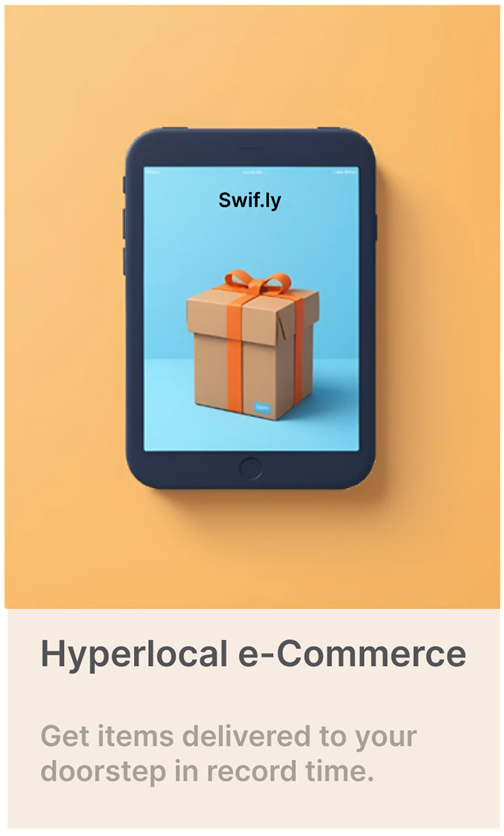
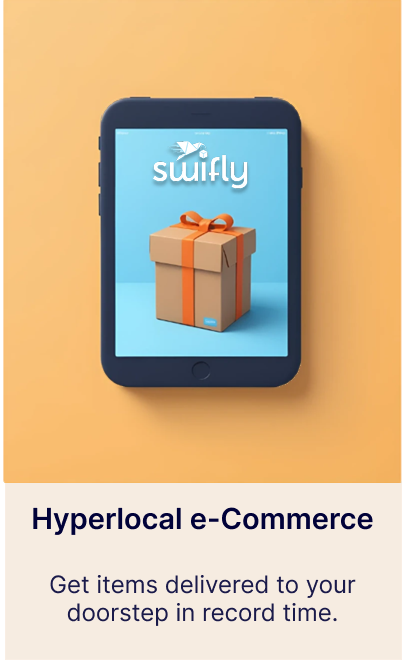
commit

diff --git a/src/style.css b/src/style.css
@@ -13,7 +13,7 @@
 
 .header-image {
     margin-left: 5%; /* Reduced margin for smaller screens */
-    height: 75px; /* Smaller height for better scaling */
+    height: 70px; /* Smaller height for better scaling */
     width: auto; /* Maintain aspect ratio */
 }
 html {
@@ -33,13 +33,15 @@ html {
 
 .button-container .btn.norm-btn {
     background-color: white;
-    color: rgb(161, 161, 161); /* Add border for visibility */
+    color: #50a4cc; /* Add border for visibility */
     font-style: bold;
 }
-
+.bruh1{
+    height:100%;
+}
 .button-container .btn:hover,
 .button-container .btn:focus {
-    background-color: rgb(255, 89, 0);
+    background-color: #50a4cc;
     color: white;
     border: none;
 }
@@ -47,12 +49,12 @@ html {
     position: relative;
 }
 .button-container .btn.orange-btn {
-    background-color: rgb(255, 89, 0);
+    background-color: #50a4cc;
     color: white;
 }
 
 .orange-btn {
-    background-color: rgb(255, 89, 0);
+    background-color: #50a4cc;
     color: white;
     border: none;
     margin-left: 2%;
@@ -74,6 +76,7 @@ html {
 .left-container 
 {
     width: 100%; 
+    height:40vw;
     padding-bottom:2%;
     display: flex;
     flex-direction: column; 
@@ -108,18 +111,19 @@ html {
     font-family: 'Inter', sans-serif;
     font-weight: 600;
     font-size: 3vw;
-    margin-top:20px;
-    margin-left:50px;
-    color: #474747;
+    margin-top:8%;
+    margin-left:7%;
+    color: black;
     line-height: 1.2;
+    text-shadow: 2px 2px 4px rgba(0, 0, 0, 0.3);
 }
 .left-container .section-text2 {
     font-family: 'Inter', sans-serif;
-    font-weight: 600;
+    font-weight: 400;
     font-size: 1.2vw;
     margin-top:20px;
-    margin-left:50px;
-    color: #7f7e7e;
+    margin-left:7%;
+    color: black;
     line-height: 1.5;
     letter-spacing: 1px;
 }
@@ -127,31 +131,31 @@ html {
     margin-top:20px;
     display: flex;
     align-items: center;
-    margin-left:50px;
+    margin-left:7%;
 }
 .orange-btn {
-    background-color: rgb(255, 89, 0);
-    color: white;
+    background-color: #ff8454;;
+    color: #f3e9df;
     border: none;
     margin-left:0;
     border-radius: 10px;
     padding: 20px 20px;
     cursor: pointer;
     margin-right:20px;
-    font-size:20px;
+    font-size: 1.4vw;
     font-weight:600;
 }
 .orange-btn:hover {
-    background-color: rgb(255, 120, 0);
+    background-color: rgb(255, 89, 0);
+    color:white;
 }
 .transparent-btn {
-    background-color: transparent;
-    color: rgb(255, 89, 0);
-    border: 2px solid rgb(0, 0, 0); 
+    background-color: #ff8454;
+    color: #f3e9df;
     border-radius: 10px;
     padding: 20px 20px;
     cursor: pointer;
-    font-size:20px;
+    font-size: 1.4vw;
     font-weight:600;
 }
 .transparent-btn:hover {
@@ -208,49 +212,77 @@ html {
     display:block;
 }
 /*NOW IS ABOUT*/
+.bruh4{
+    margin-top:5%;
+}
+.bruh2{
+    background-color: white;
+    height:100%;
+}
+.heading3{
+    margin-left:3%;
+}
+.swiflyheading{
+    display: block;
+    margin: auto;
+    height:12vw;
+    width:auto;
+    margin-top:1%;
+}
+.heading2{
+    display: block;
+    margin: auto;
+    font-size: 1.2vw;
+    width:auto;
+    text-align: center;
+    margin-top:1%;
+}
+.groupbike{
+    margin-top:2%;
+    margin-bottom:5%;
+    width:100%;
+}
 .homebike1 {
     left: 0; 
     z-index: 200;
-    width:45%;
+    height:42vw;
     position: absolute;
+    margin:2% auto;
 }
-
 .right-container 
 {
     width: 100%;
+    height:44vw;
     display: flex;
     flex-direction: column; 
     gap: 20px; 
     z-index:400;
     background-color: #fff5ed;
-    padding-bottom:5%;
     z-index:10;
+    padding-bottom:2%;
 }
-.right-container .section-image {
-    margin-top:70px;
-    width: 181px;
-    height: 90px; 
-    transform: scaleX(-1);
-    margin-left:47%;
-}
+
 .right-container .section-text1 {
     font-family: 'Inter', sans-serif;
     font-weight: 600;
-    font-size: 3.5vw;
-    margin-top:20px;
-    margin-left:47%;
-    color: #474747;
+    font-size: 3.2vw;
+    margin-top:10%;
+    margin-left:20%;
+    text-align:center;
+    color: black;
     line-height: 1.2;
     padding:10px;
+    z-index:200;
 }
 .right-container .section-text2 {
     font-family: 'Inter', sans-serif;
-    font-weight: 600;
+    font-weight: 400;
     font-size: 1.4vw;
     margin-top:20px;
-    margin-left:47%;
-    color: #bdbdbd;
+    margin-left:20%;
+    color: #616161;
     line-height: 1.5;
+    text-align:center;
 }
 .right-container .button-section {
     margin-top:30px;
@@ -267,8 +299,8 @@ html {
     padding: 20px 50px;
     cursor: pointer;
     margin-right:20px;
-    font-size: 2vw;
-    font-weight:500;
+    font-size: 1.4vw;
+    font-weight:400;
 }
 .orange-btn:hover {
     background-color: rgb(255, 120, 0);
@@ -284,18 +316,22 @@ html {
 }
 .custom-container1 {
     z-index: 200; 
-    margin: 0; 
+    margin: 0 auto; /* Centers the container */
     padding: 0; 
-    width: 100vw; 
+    width: 100%; 
     max-width: 100%; 
-    justify-content: space-between;
+    display: flex;
+    justify-content: center; /* Centers images */
     align-items: center;
+    gap: 20px; /* Adjust spacing between images */
     background-color: #fff5ed;
 }
-.gridimg{
-    width:90%;
-    height:auto;
+
+.gridimg {
+    width: 90%;
+    height: auto;
 }
+
 .bruh6,.bruh7{
     background-color: #beddf9;
     position:relative;

diff --git a/src/index.html b/src/index.html
@@ -41,9 +41,8 @@
   <div class="bruh1">
   <img src="../img/homebike.png" class="homebike" id="target-section1">
   <div class="left-container">
-    <img src="../img/swiflybird.png" alt="Placeholder Image" class="section-image">
-    <p class="section-text1">Swift Hyper-local <br> Delivery</p>
-    <p class="section-text2">From groceries to gadgets, we deliver it all<br>at lightning speed!<br>
+    <p class="section-text1">Swift Hyper-local Delivery</p>
+    <p class="section-text2">From groceries to gadgets, we deliver it all<br>at lightning speed!<br><br>
         The power of swift convenience at your<br>fingertips with Swif.ly</p>
     <div class="button-section">
       <button class="btn orange-btn">Download</button>
@@ -52,33 +51,14 @@
   </div>
   </div>
   <div id="bruh2">
-  <div class="container my-5 custom-container">
-    <div class="row container-second">
-        <div class="col-12 col-md-4 p-3">
-          <img src="../img/swiflybird.png" alt="Placeholder Image" class="section-image">
-          <p class="section-text1">How It Works</p>
-          <p class="section-text2">Step 1- Place your order via app</p>
-          <p class="section-text2">Step 2- Choose delivery or<br>service options</p>
-          <div class="button-section1">
-            <button class="btn orange-btn">Download App</button>
-          </div>
-        </div>
-        
-        <div class="col-12 col-md-4 p-3">
-            <img src="../img/homeimage1.png" class="bike1 img-fluid mb-3">
-        </div>
-
-        <div class="col-12 col-md-4 p-3">
-            <img src="../img/homeimage2.png" class="bike2 img-fluid mb-3" alt="Placeholder Image">
-        </div>
-    </div>
-  </div>
+    <img src="../img/heading1.png" class="swiflyheading">
+    <p class="heading2">Dedicated delivery solutions for doorstep services.</p>
+    <img src="../img/groupbike.png" class="groupbike">
   </div>
   <div class="bruh3">
   <img src="../img/aboutbike.png" class="homebike1" id="target-section2">
   <div class="right-container">
-    <img src="../img/swiflybird.png" class="section-image">
-    <p class="section-text1">Empowering <br> Hyper-Local</p>
+    <p class="section-text1">Empowering Hyper-Local</p>
     <p class="section-text2">Swifly's franchise model provides a unique <br>
         opportunity for aspiring entrepreneurs to be<br>
         a part of the hyperlocal delivery revolution</p>
@@ -88,7 +68,7 @@
   </div>
   </div>
   <div class="bruh4">
-  <p class="heading1">Why choose Swifly?</p>
+  <img src="../img/swiflyheading1.png" class="heading3">
   <div class="container my-5 custom-container1">
     <div class="row container-second">
         <div class="col-12 col-md-4 p-3">
